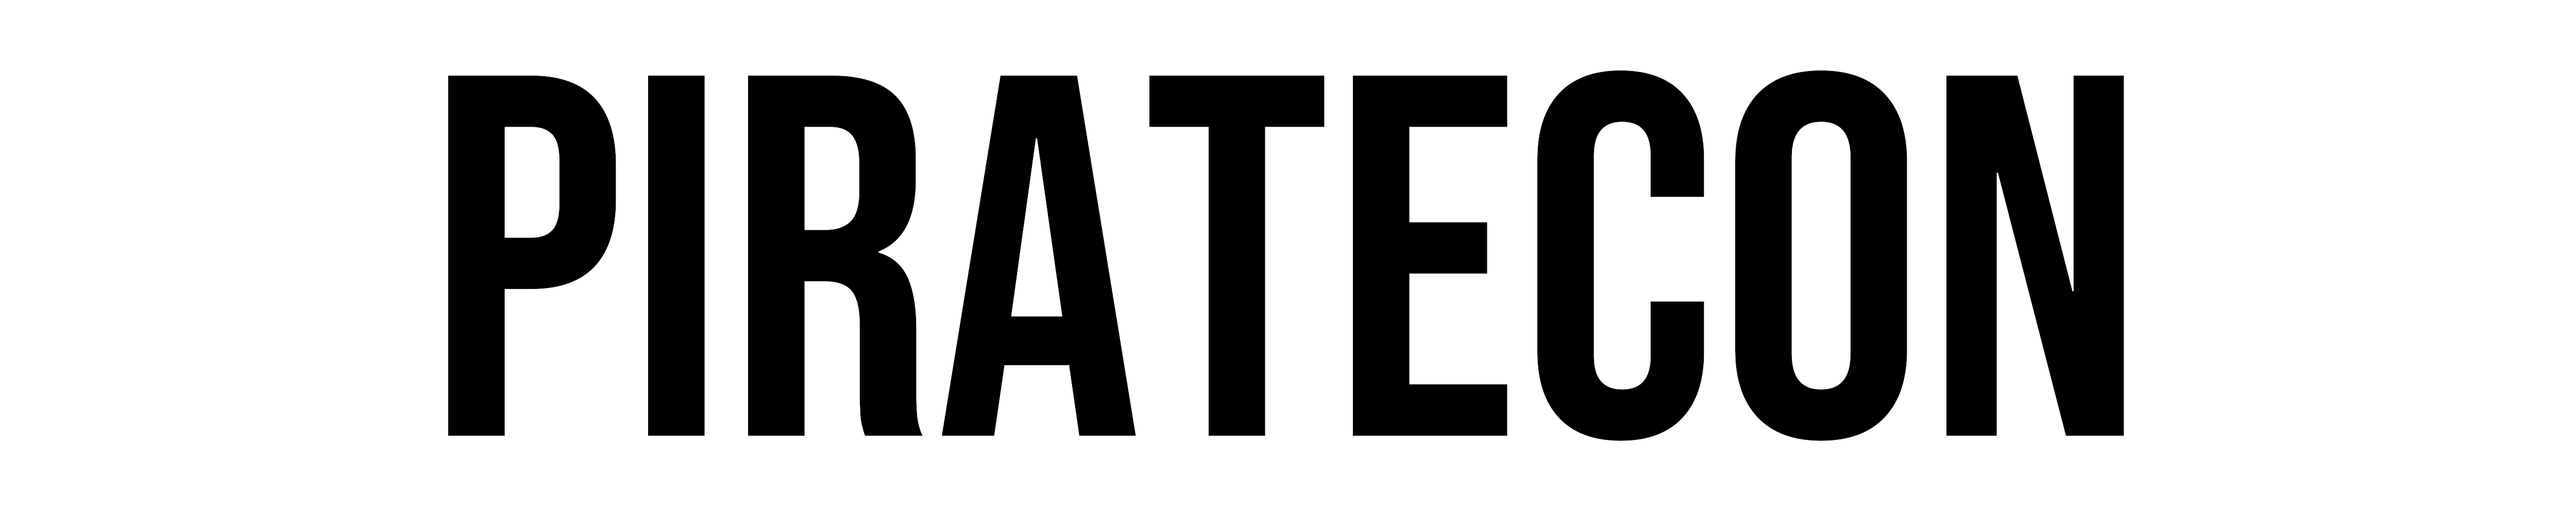
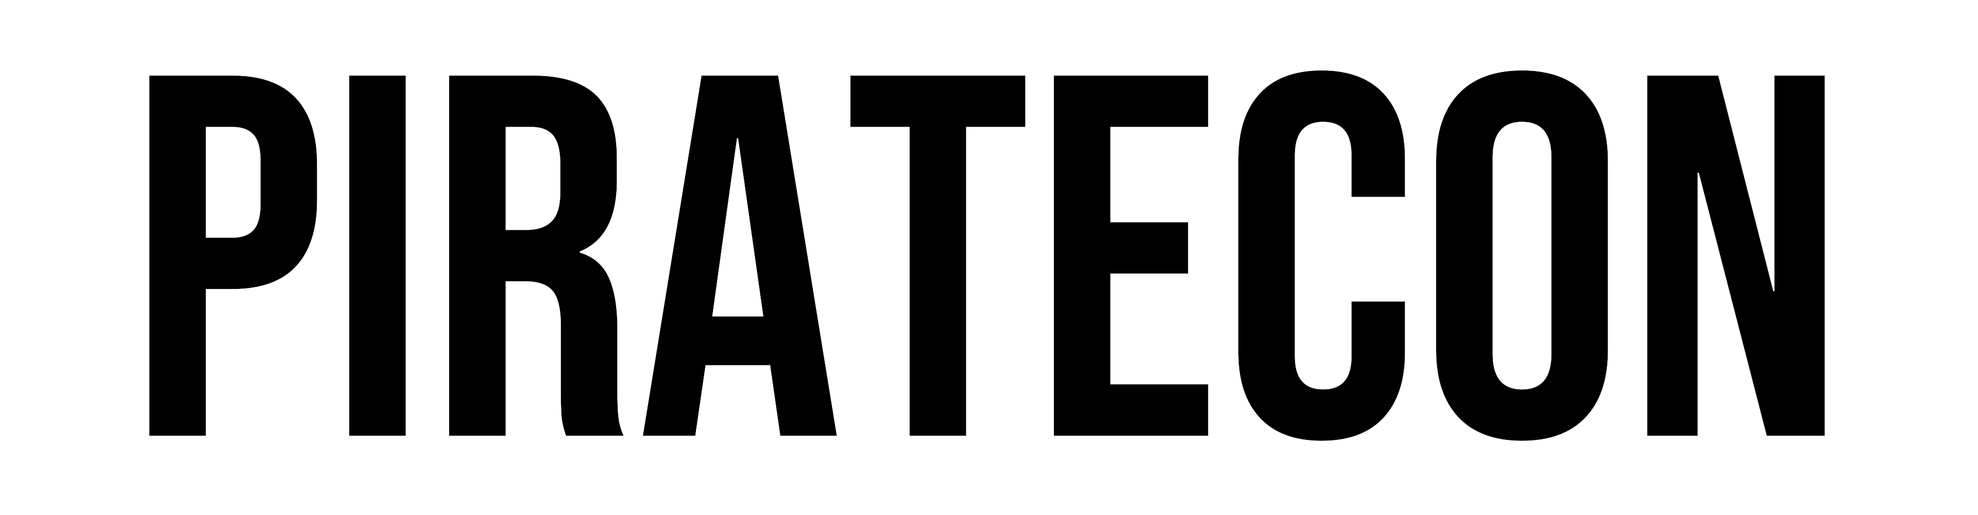
Změna automatiky zmenšení loga

diff --git a/assets/css/custom.css b/assets/css/custom.css
@@ -117,7 +117,7 @@ body > header {
   color: #000;
   /*background-color: #fff;*/
   background-image: url('../images/piratecon.png');
-  background-size: 70% auto;
+  background-size: contain;
   background-position: center;
   background-repeat: no-repeat;
 }
